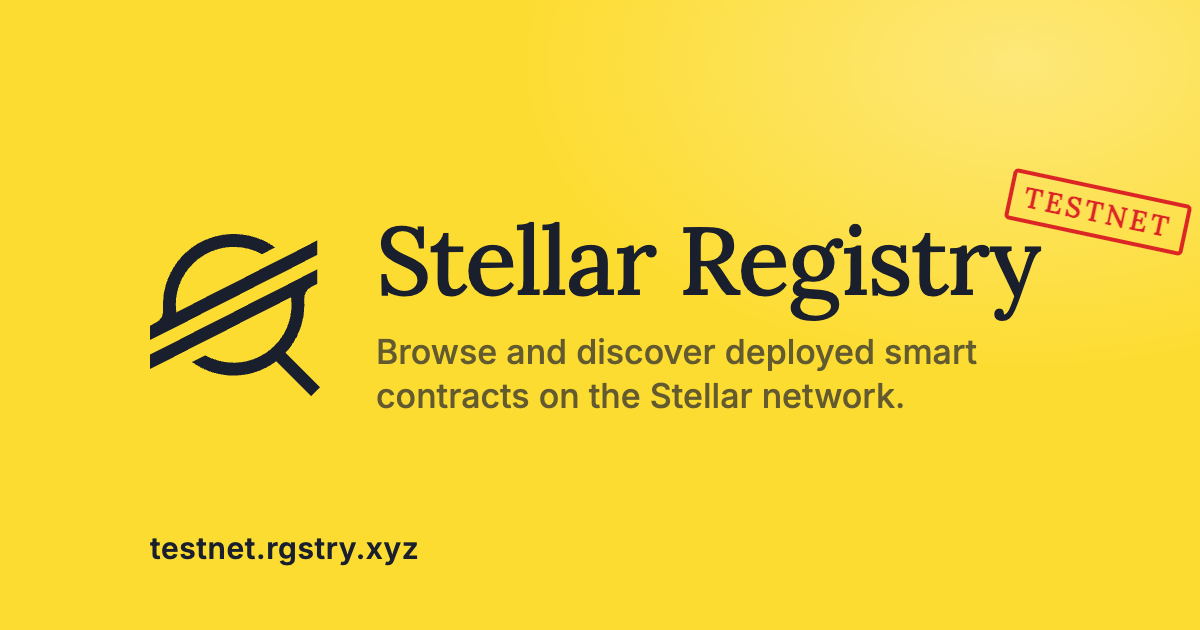
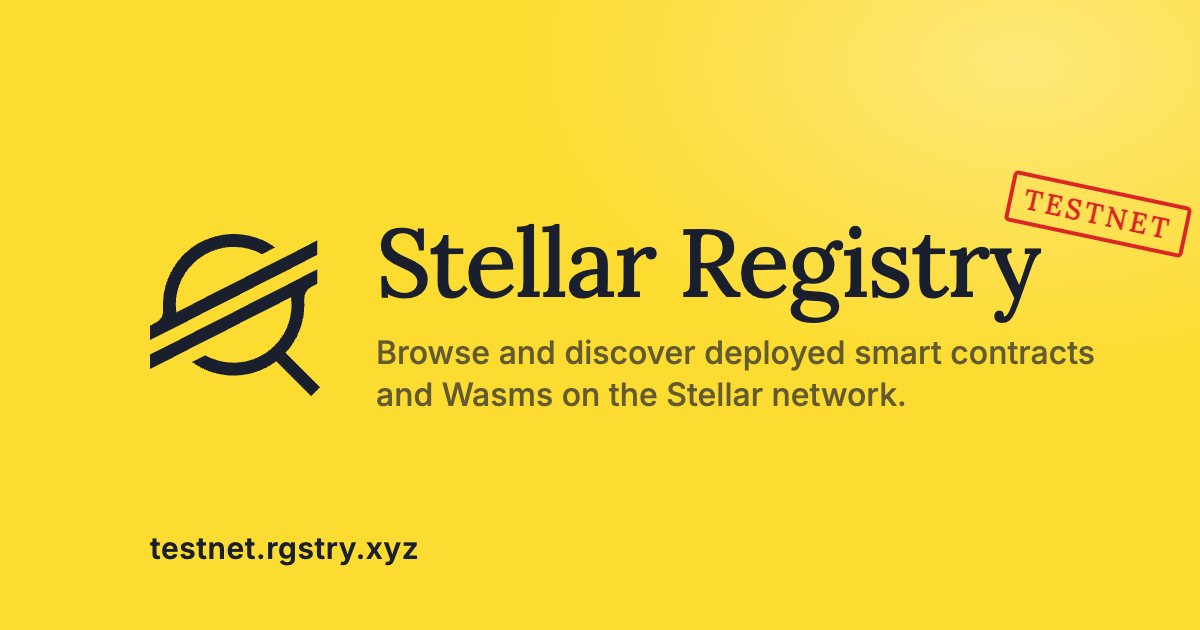
feat: mention Wasms on the social card

diff --git a/app/root.tsx b/app/root.tsx
@@ -328,7 +328,7 @@ function Footer() {
 
 const siteTitle = "Stellar Registry"
 const siteDescription =
-	"Browse and discover deployed smart contracts on the Stellar network."
+	"Browse and discover deployed smart contracts and Wasms on the Stellar network."
 
 // og:image must be absolute, so it follows the host serving the page.
 function SocialMeta() {
